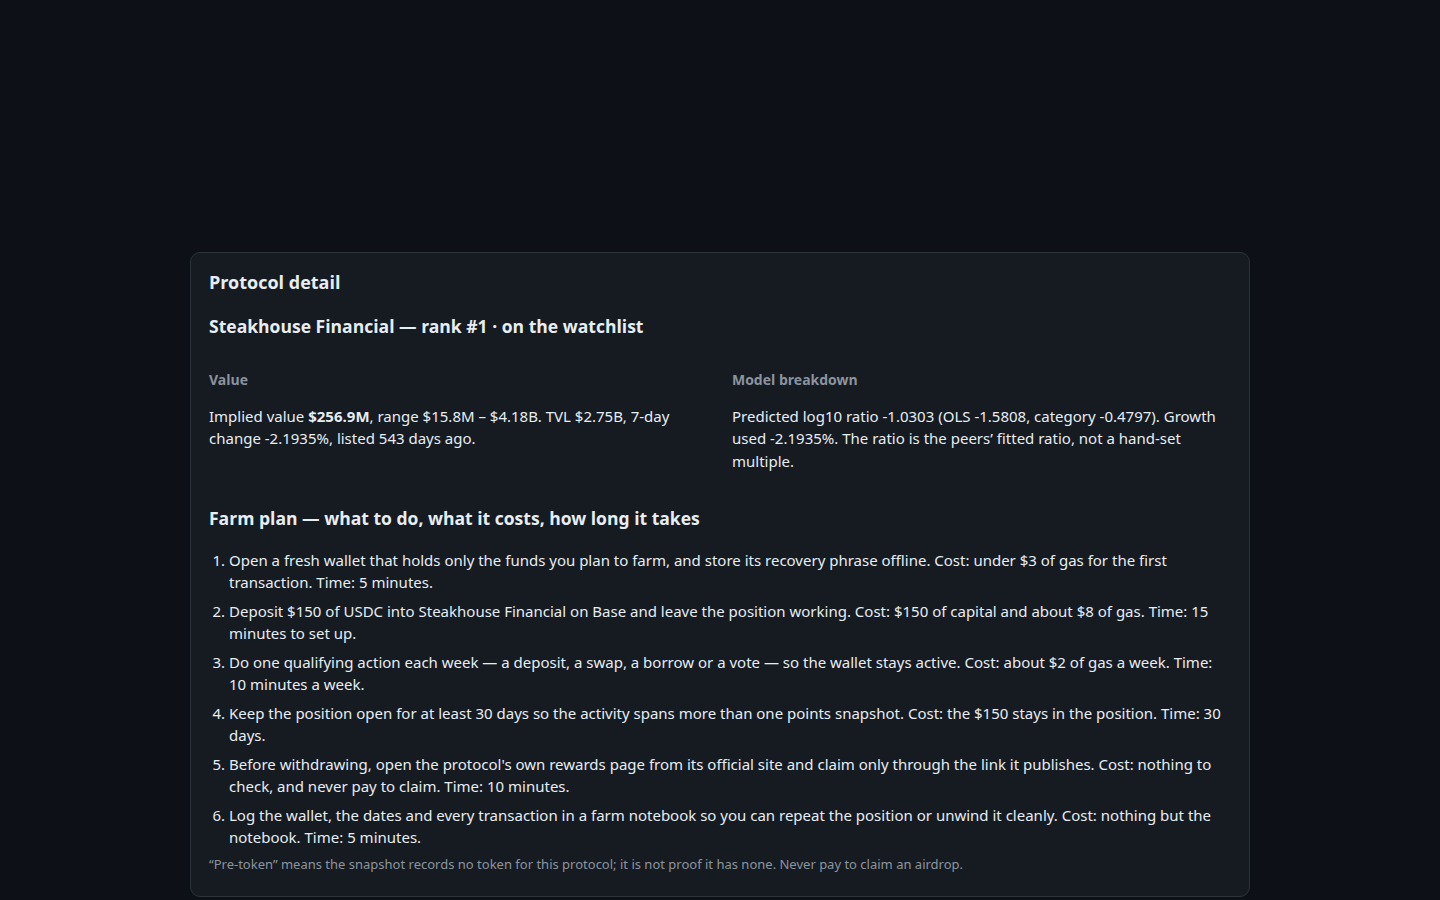
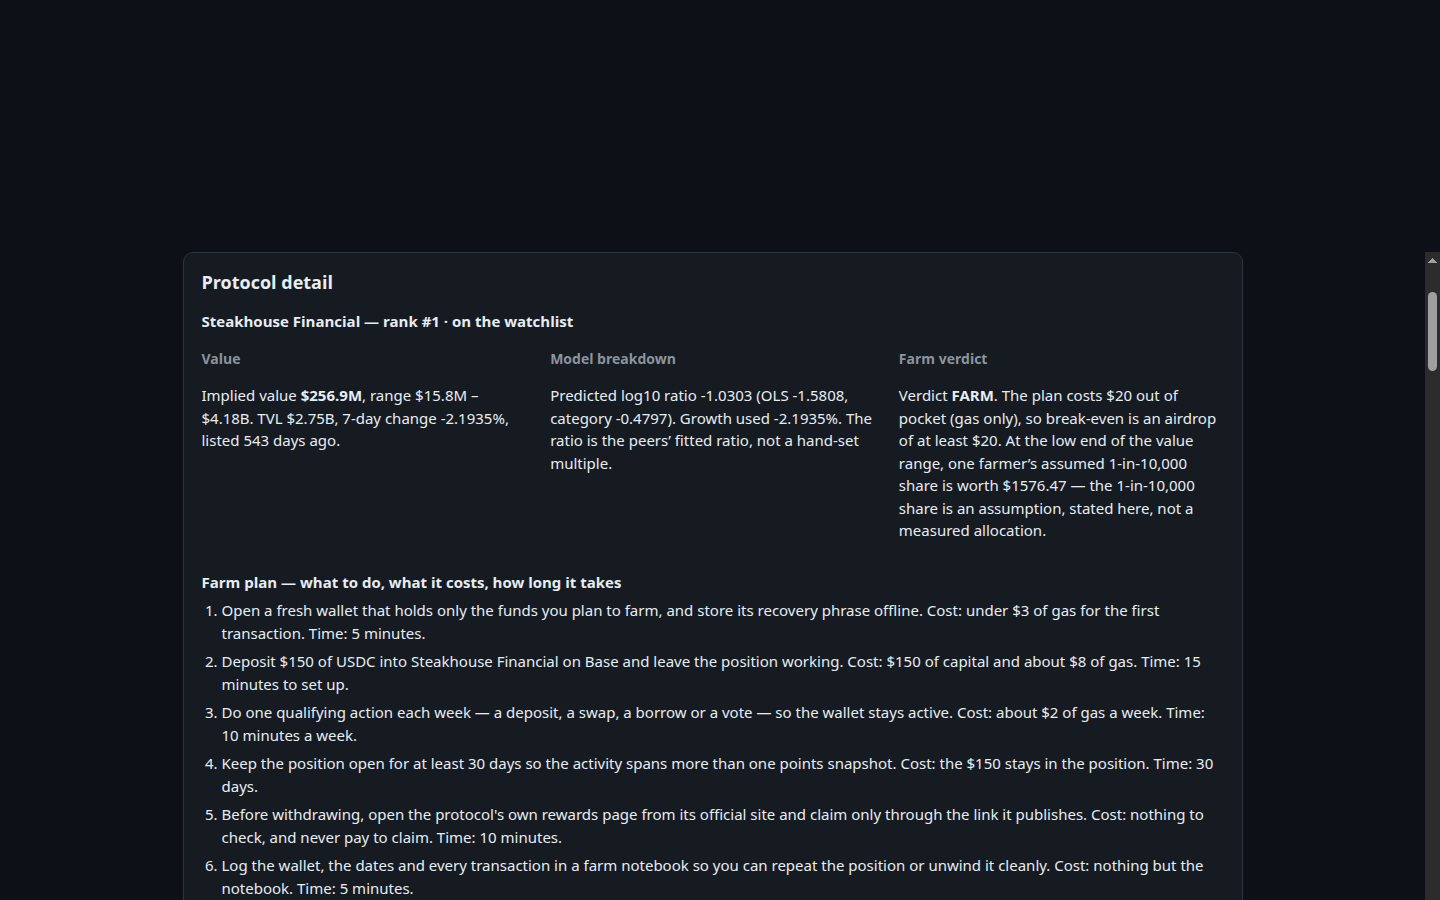
Token radar v2: farm verdicts, board Range column, 8-step plans, per-term ablation

diff --git a/lib/model.ts b/lib/model.ts
@@ -21,9 +21,16 @@
 //     on the rest, and the error on the held-out peers is reported.
 //   * walk-forward: peers listed before the median listing date train the
 //     model; peers listed after it are the test set.
+//   * ablation: the model is refit with one term removed at a time and scored
+//     on the same held-out peers, so each term has to earn its keep.
 // Both are honest about the fit: the peer ratio is noisy (R^2 near 0.2),
 // so implied values are order-of-magnitude estimates and each row carries
 // its interval. The dashboard states the numbers instead of hiding them.
+//
+// Each row also carries a farm verdict (FARM / THIN / SKIP) and a break-even,
+// computed from numbers already on the row: the plan's out-of-pocket spend
+// against one farmer's assumed 1-in-10,000 share of the implied value.
+// The verdict never changes the ranking or the values.
 
 export interface SnapshotProtocol {
   slug: string;
@@ -56,6 +63,8 @@ export interface FitMetrics {
   held_out: { n_train: number; n_test: number; rmse_log10: number; mae_log10: number };
   walk_forward: { n_train: number; n_test: number; rmse_log10: number; mae_log10: number; split_date: string | null };
   coefficients: number[];
+  /** Held-out RMSE of the full model, then of the model refit with one term removed. */
+  ablation: { term: string; held_out_rmse_log10: number }[];
 }
 
 export interface BoardRow {
@@ -80,6 +89,15 @@ export interface BoardRow {
     maturity_days: number;
   };
   farm_steps: string[];
+  /** Farm verdict, from numbers already on the row: the plan's out-of-pocket
+   * spend, the airdrop that would break even, and one farmer's assumed share
+   * of the implied value at the low end of its range. */
+  farm: {
+    verdict: 'FARM' | 'THIN' | 'SKIP';
+    spend_usd: number;
+    break_even_usd: number;
+    expected_low_usd: number;
+  };
 }
 
 export interface LiveRow {
@@ -107,7 +125,7 @@ export interface RadarData {
   live: LiveRow[];
 }
 
-export const MODEL_VERSION = 'radar-peerfit-1';
+export const MODEL_VERSION = 'radar-peerfit-2';
 
 const DAY_MS = 86_400_000;
 const UNKNOWN_AGE_DAYS = 365;
@@ -150,10 +168,14 @@ export function exclusionReason(p: SnapshotProtocol): string | null {
   return null;
 }
 
-/** Features for the peer regression. */
-function features(p: SnapshotProtocol, asOf: string): number[] {
+/** Features for the peer regression. A dropped index is zeroed, which for OLS
+ * is the same as refitting without that term: its coefficient is pinned to
+ * zero by the ridge and the other coefficients refit around its absence. */
+function features(p: SnapshotProtocol, asOf: string, dropIdx: number | null = null): number[] {
   const age = ageDays(asOf, p.listed_at) ?? UNKNOWN_AGE_DAYS;
-  return [1, Math.log10(Math.max(1, p.tvl_usd)), clampGrowth(p.change_7d) / 100, Math.log1p(Math.max(0, age)), Math.min(4, p.chains.length)];
+  const f = [1, Math.log10(Math.max(1, p.tvl_usd)), clampGrowth(p.change_7d) / 100, Math.log1p(Math.max(0, age)), Math.min(4, p.chains.length)];
+  if (dropIdx !== null) f[dropIdx] = 0;
+  return f;
 }
 
 /** Solve (X'X + ridge*I) b = X'y by Gaussian elimination. X rows are feature vectors. */
@@ -235,31 +257,34 @@ interface FittedModel {
   lo: number;
   hi: number;
   rmse: number;
+  dropIdx: number | null;
+  useCategory: boolean;
 }
 
-function fitModel(peers: SnapshotProtocol[], logRatios: number[], asOf: string): FittedModel {
-  const beta = ols(peers.map((p) => features(p, asOf)), logRatios);
+function fitModel(peers: SnapshotProtocol[], logRatios: number[], asOf: string, dropIdx: number | null = null, useCategory = true): FittedModel {
+  const beta = ols(peers.map((p) => features(p, asOf, dropIdx)), logRatios);
   const globalMedian = median(logRatios);
   const byCat = categoryMedians(peers, logRatios);
   const catMedian = new Map<string, number>();
   for (const [cat, vals] of byCat) {
     catMedian.set(cat, (vals.length * median(vals) + 5 * globalMedian) / (vals.length + 5));
   }
-  const preds = peers.map((p, i) => predictOne(p, asOf, beta, globalMedian, catMedian));
+  const preds = peers.map((p, i) => predictOne(p, asOf, beta, globalMedian, catMedian, dropIdx, useCategory));
   const rmse = Math.sqrt(preds.reduce((s, pr, i) => s + (pr - logRatios[i]!) ** 2, 0) / Math.max(1, preds.length));
-  return { beta, globalMedian, catMedian, lo: percentile(logRatios, 0.05), hi: percentile(logRatios, 0.95), rmse };
+  return { beta, globalMedian, catMedian, lo: percentile(logRatios, 0.05), hi: percentile(logRatios, 0.95), rmse, dropIdx, useCategory };
 }
 
-function predictOne(p: SnapshotProtocol, asOf: string, beta: number[], globalMedian: number, catMedian: Map<string, number>): number {
-  const olsPred = dot(beta, features(p, asOf));
+function predictOne(p: SnapshotProtocol, asOf: string, beta: number[], globalMedian: number, catMedian: Map<string, number>, dropIdx: number | null = null, useCategory = true): number {
+  const olsPred = dot(beta, features(p, asOf, dropIdx));
+  if (!useCategory) return olsPred;
   const catPred = catMedian.get(p.category ?? 'Unknown') ?? globalMedian;
   return (olsPred + catPred) / 2;
 }
 
 function predictClamped(p: SnapshotProtocol, asOf: string, model: FittedModel): { logRatio: number; ols: number; cat: number } {
-  const olsPred = dot(model.beta, features(p, asOf));
+  const olsPred = dot(model.beta, features(p, asOf, model.dropIdx));
   const catPred = model.catMedian.get(p.category ?? 'Unknown') ?? model.globalMedian;
-  const raw = (olsPred + catPred) / 2;
+  const raw = model.useCategory ? (olsPred + catPred) / 2 : olsPred;
   return { logRatio: Math.min(model.hi, Math.max(model.lo, raw)), ols: olsPred, cat: catPred };
 }
 
@@ -292,6 +317,23 @@ export function fitAndValidate(snapshot: Snapshot): { model: FittedModel; metric
   const heldPred = testPeers.map((p) => predictClamped(p, snapshot.as_of, heldModel).logRatio);
   const held = errorStats(testY, heldPred);
 
+  // Ablation: refit with one term removed, scored on the same held-out peers.
+  // A term earns its keep when removing it makes the held-out error worse.
+  const TERM_NAMES = ['log TVL', '7-day growth', 'age', 'chain count'];
+  const ablation: { term: string; held_out_rmse_log10: number }[] = [
+    { term: 'full model', held_out_rmse_log10: Math.round(held.rmse * 1000) / 1000 },
+  ];
+  for (let d = 1; d <= 4; d++) {
+    const m = fitModel(trainPeers, trainY, snapshot.as_of, d, true);
+    const pr = testPeers.map((p) => predictClamped(p, snapshot.as_of, m).logRatio);
+    const e = errorStats(testY, pr);
+    ablation.push({ term: `without ${TERM_NAMES[d - 1]}`, held_out_rmse_log10: Math.round(e.rmse * 1000) / 1000 });
+  }
+  const noCatModel = fitModel(trainPeers, trainY, snapshot.as_of, null, false);
+  const noCatPred = testPeers.map((p) => predictClamped(p, snapshot.as_of, noCatModel).logRatio);
+  const noCat = errorStats(testY, noCatPred);
+  ablation.push({ term: 'without category median', held_out_rmse_log10: Math.round(noCat.rmse * 1000) / 1000 });
+
   // Walk-forward: train on peers listed before the median listing date, test after.
   const dated = peers
     .map((p, i) => ({ p, y: logRatios[i]!, d: p.listed_at }))
@@ -318,6 +360,7 @@ export function fitAndValidate(snapshot: Snapshot): { model: FittedModel; metric
     held_out: { n_train: trainPeers.length, n_test: testPeers.length, rmse_log10: Math.round(held.rmse * 1000) / 1000, mae_log10: Math.round(held.mae * 1000) / 1000 },
     walk_forward: { ...walk, rmse_log10: Math.round(walk.rmse_log10 * 1000) / 1000, mae_log10: Math.round(walk.mae_log10 * 1000) / 1000 },
     coefficients: model.beta.map((b) => Math.round(b * 10000) / 10000),
+    ablation,
   };
   return { model, metrics };
 }
@@ -358,12 +401,66 @@ function actionFor(p: SnapshotProtocol, capital: number, chain: string): string 
   return `Deposit $${capital} of USDC into ${name} on ${chain} and leave the position working.`;
 }
 
-/** Six costed, timed steps, derived from the protocol's own record. */
-export function farmSteps(p: SnapshotProtocol, age: number | null): string[] {
+/** Out-of-pocket spend of one farm plan: first gas, weekly gas over the hold,
+ * and the claim check. The deposit capital is not spend — it comes back with
+ * the position. */
+export function farmSpendUsd(p: SnapshotProtocol, age: number | null): number {
+  const capital = capitalFor(p);
+  const gasFirst = capital >= 150 ? 8 : 4;
+  const hold = holdDaysFor(age);
+  return gasFirst + Math.ceil(hold / 7) * 2 + 2;
+}
+
+/**
+ * Farm verdict, from numbers already on the row. A farmer's share of a launch
+ * is a tiny fraction of the protocol's implied value; we assume 1 in 10,000
+ * of it reaches one active farmer, and the dashboard says so. The verdict
+ * compares that expected share, at the low end of the value range, with the
+ * plan's out-of-pocket spend: FARM when even the low end covers the spend ten
+ * times over, THIN when it covers the spend at all, SKIP otherwise.
+ */
+export function farmVerdict(impliedLowUsd: number, impliedUsd: number, spendUsd: number): { verdict: 'FARM' | 'THIN' | 'SKIP'; expected_low_usd: number } {
+  const SHARE = 0.0001;
+  const expectedLow = impliedLowUsd * SHARE;
+  const expected = impliedUsd * SHARE;
+  const rounded = Math.round(expectedLow * 100) / 100;
+  if (expectedLow >= 10 * spendUsd) return { verdict: 'FARM', expected_low_usd: rounded };
+  if (expectedLow >= spendUsd || expected >= 10 * spendUsd) return { verdict: 'THIN', expected_low_usd: rounded };
+  return { verdict: 'SKIP', expected_low_usd: rounded };
+}
+
+/** A second, different qualifying action for the same protocol, done once
+ * mid-hold so the wallet shows two kinds of activity, not one repeated. */
+function secondActionFor(p: SnapshotProtocol, capital: number, chain: string): string {
+  const c = (p.category ?? '').toLowerCase();
+  const name = p.name;
+  const small = Math.max(10, Math.round(capital / 5));
+  if (c.includes('lend') || c.includes('cdp')) return `Borrow $${small} against the deposit once, then repay it the same week, so the wallet shows a borrow as well as a lend.`;
+  if (c.includes('dex') || c.includes('leveraged farm')) return `Swap $${small} through the main ${name} pool once, so the wallet shows a swap as well as liquidity.`;
+  if (c.includes('yield') || c.includes('vault')) return `Add a second, smaller deposit of $${small} from a different asset into the ${name} vault, so the wallet shows two deposits.`;
+  if (c.includes('perpetual') || c.includes('derivative')) return `Close the hedged position once and open one fresh small trade, so the wallet shows more than a single entry.`;
+  if (c.includes('restak') || c.includes('staking')) return `Restake the staking receipt once through the ${name} restaking route, so the wallet shows a second staking action.`;
+  if (c.includes('stable')) return `Hold the minted stablecoins in the ${name} savings route for a week, so the wallet shows a second stablecoin action.`;
+  if (c.includes('rwa') || c.includes('onchain capital') || c.includes('allocator')) return `Reinvest one distribution back into the same ${name} asset, so the wallet shows a reinvestment as well as a buy.`;
+  if (c.includes('basis')) return `Top up the ${name} basis position once with a small second deposit of $${small}, so the wallet shows two deposits.`;
+  if (c.includes('prediction')) return `Settle one market and enter a second small one on ${name}, so the wallet shows two settled markets.`;
+  if (c.includes('bridge')) return `Bridge $${small} back to the origin chain once through ${name}, so the wallet shows a round trip.`;
+  return `Make one second, different on-chain interaction — a vote, a second deposit or a small swap — so the wallet shows two kinds of activity.`;
+}
+
+/** Eight costed, timed steps, derived from the protocol's own record. */
+export function farmSteps(p: SnapshotProtocol, age: number | null, verdict: 'FARM' | 'THIN' | 'SKIP'): string[] {
   const chain = chainOf(p);
   const capital = capitalFor(p);
   const hold = holdDaysFor(age);
   const gas = capital >= 150 ? 8 : 4;
+  const spend = farmSpendUsd(p, age);
+  const verdictNote =
+    verdict === 'FARM'
+      ? 'even the low end of the value range would pay the spend back more than ten times over'
+      : verdict === 'THIN'
+        ? 'the low end of the range would just about cover the spend'
+        : 'even the point estimate would not cover the spend';
   const steps = [
     `Open a fresh wallet that holds only the funds you plan to farm, and store its recovery phrase offline. Cost: under $3 of gas for the first transaction. Time: 5 minutes.`,
     `${actionFor(p, capital, chain)} Cost: $${capital} of capital and about $${gas} of gas. Time: 15 minutes to set up.`,
@@ -371,6 +468,8 @@ export function farmSteps(p: SnapshotProtocol, age: number | null): string[] {
     `Keep the position open for at least ${hold} days so the activity spans more than one points snapshot. Cost: the $${capital} stays in the position. Time: ${hold} days.`,
     `Before withdrawing, open the protocol's own rewards page from its official site and claim only through the link it publishes. Cost: nothing to check, and never pay to claim. Time: 10 minutes.`,
     `Log the wallet, the dates and every transaction in a farm notebook so you can repeat the position or unwind it cleanly. Cost: nothing but the notebook. Time: 5 minutes.`,
+    `${secondActionFor(p, capital, chain)} Cost: about $2 of gas. Time: 10 minutes, once.`,
+    `Break-even: an airdrop of at least $${spend} covers this plan's out-of-pocket spend of $${spend} (gas only; the $${capital} deposit comes back with the position). Verdict: ${verdict} — ${verdictNote}. Time: 5 minutes to check.`,
   ];
   return steps.map((s) => (s.length > 600 ? `${s.slice(0, 596)}...` : s));
 }
@@ -398,29 +497,34 @@ export function buildBoard(snapshot: Snapshot): { board: BoardRow[]; radar: Rada
   });
   scored.sort((a, b) => b.implied - a.implied || (a.p.slug < b.p.slug ? -1 : a.p.slug > b.p.slug ? 1 : 0));
 
-  const board: BoardRow[] = scored.map((s, i) => ({
-    rank: i + 1,
-    slug: s.p.slug,
-    name: s.p.name,
-    category: s.p.category,
-    chains: s.p.chains,
-    tvl_usd: s.p.tvl_usd,
-    change_7d: s.p.change_7d,
-    age_days: s.age,
-    implied_value_usd: s.implied,
-    implied_low_usd: s.low,
-    implied_high_usd: s.high,
-    token_status: 'pre-token',
-    on_watchlist: watch.has(s.p.slug),
-    model: {
-      log_ratio: Math.round(s.pred.logRatio * 10000) / 10000,
-      ols_log_ratio: Math.round(s.pred.ols * 10000) / 10000,
-      category_log_ratio: Math.round(s.pred.cat * 10000) / 10000,
-      growth_pct: clampGrowth(s.p.change_7d),
-      maturity_days: s.age ?? UNKNOWN_AGE_DAYS,
-    },
-    farm_steps: farmSteps(s.p, s.age),
-  }));
+  const board: BoardRow[] = scored.map((s, i) => {
+    const spend = farmSpendUsd(s.p, s.age);
+    const v = farmVerdict(s.low, s.implied, spend);
+    return {
+      rank: i + 1,
+      slug: s.p.slug,
+      name: s.p.name,
+      category: s.p.category,
+      chains: s.p.chains,
+      tvl_usd: s.p.tvl_usd,
+      change_7d: s.p.change_7d,
+      age_days: s.age,
+      implied_value_usd: s.implied,
+      implied_low_usd: s.low,
+      implied_high_usd: s.high,
+      token_status: 'pre-token',
+      on_watchlist: watch.has(s.p.slug),
+      model: {
+        log_ratio: Math.round(s.pred.logRatio * 10000) / 10000,
+        ols_log_ratio: Math.round(s.pred.ols * 10000) / 10000,
+        category_log_ratio: Math.round(s.pred.cat * 10000) / 10000,
+        growth_pct: clampGrowth(s.p.change_7d),
+        maturity_days: s.age ?? UNKNOWN_AGE_DAYS,
+      },
+      farm_steps: farmSteps(s.p, s.age, v.verdict),
+      farm: { verdict: v.verdict, spend_usd: spend, break_even_usd: spend, expected_low_usd: v.expected_low_usd },
+    };
+  });
 
   const live: LiveRow[] = snapshot.protocols
     .filter((p) => !isPreToken(p) && p.category !== 'CEX')
@@ -466,6 +570,7 @@ export function buildBoard(snapshot: Snapshot): { board: BoardRow[]; radar: Rada
       on_watchlist: r.on_watchlist,
       model: r.model,
       farm_steps: r.farm_steps,
+      farm: r.farm,
     })),
     live,
   };

diff --git a/dashboard/app.js b/dashboard/app.js
@@ -29,13 +29,15 @@
   var watchCovered = rows.filter(function (r) { return r.on_watchlist; }).length;
   var stepsOk = rows.every(function (r) { return r.farm_steps.length >= 3 && r.farm_steps.length <= 12; });
   var sortedOk = rows.every(function (r, i) { return i === 0 || rows[i - 1].implied_value_usd >= r.implied_value_usd; });
+  var accounted = D.accounted.ranked + D.accounted.live + D.accounted.excluded;
   var chips = [
     ['Watchlist covered ' + watchCovered + '/' + D.watchlist_size, watchCovered === D.watchlist_size],
+    [accounted + '/' + D.accounted.total + ' accounted for', accounted === D.accounted.total],
     ['Board ' + rows.length + ' rows, ranks 1–' + rows.length, rows.length >= 100],
-    ['Farm plans 6 steps each', stepsOk],
+    ['Farm plans 8 steps each', stepsOk],
     ['Values fall with rank', sortedOk],
     ['No network: static page', true],
-    ['Peer fit is noisy — see validation', false],
+    ['Held-out RMSE ' + fit.held_out.rmse_log10.toFixed(2) + ' log10', true],
   ];
   document.getElementById('integrity').innerHTML = chips.map(function (c) {
     return '<span class="chip ' + (c[1] ? 'ok' : 'warn') + '">' + esc(c[0]) + '</span>';
@@ -60,6 +62,15 @@
     'Read the validation honestly: the peer fit is noisy (R² ≈ ' + fit.r_squared + '). Each row therefore carries ' +
     'an interval of roughly ×/÷ ' + Math.pow(10, fit.held_out.rmse_log10).toFixed(1) +
     ' around its implied value. These are order-of-magnitude estimates, not prices.';
+
+  if (fit.ablation) {
+    document.getElementById('ablation-note').textContent =
+      'Each row refits the model with one term removed and scores it on the same held-out peers (n=' + fit.held_out.n_test + '). ' +
+      'A term earns its keep when removing it makes the error worse; a term whose removal helps — or changes nothing — is carried for completeness, not because the blind test likes it.';
+    document.querySelector('#ablation tbody').innerHTML = fit.ablation.map(function (a) {
+      return '<tr><td>' + esc(a.term) + '</td><td class="num">' + a.held_out_rmse_log10.toFixed(3) + '</td></tr>';
+    }).join('');
+  }
 
   // Filters.
   var cats = [...new Set(rows.map(function (r) { return r.category || 'Unknown'; }))].sort();
@@ -95,7 +106,9 @@
         '<td>' + esc(r.category || '—') + '</td><td>' + esc(r.chains.slice(0, 2).join(', ') || '—') + '</td>' +
         '<td class="num">' + money(r.tvl_usd) + '</td><td class="num">' + pct(r.change_7d) + '</td>' +
         '<td class="num">' + (r.age_days === null ? '—' : r.age_days + 'd') + '</td>' +
-        '<td class="num"><b>' + money(r.implied_value_usd) + '</b></td></tr>';
+        '<td class="num"><b>' + money(r.implied_value_usd) + '</b></td>' +
+        '<td class="num">' + money(r.implied_low_usd) + '–' + money(r.implied_high_usd) + '</td>' +
+        '<td>' + (r.farm ? '<span class="badge verdict-' + r.farm.verdict.toLowerCase() + '">' + r.farm.verdict + '</span>' : '—') + '</td></tr>';
     }).join('');
     tb.querySelectorAll('tr').forEach(function (tr) {
       tr.addEventListener('click', function () { showDetail(tr.getAttribute('data-slug')); });
@@ -113,7 +126,11 @@
       ', listed ' + (r.age_days === null ? 'date unknown' : r.age_days + ' days ago') + '.</p></div>' +
       '<div><h3>Model breakdown</h3><p>Predicted log10 ratio ' + r.model.log_ratio +
       ' (OLS ' + r.model.ols_log_ratio + ', category ' + r.model.category_log_ratio +
-      '). Growth used ' + r.model.growth_pct + '%. The ratio is the peers’ fitted ratio, not a hand-set multiple.</p></div></div>' +
+      '). Growth used ' + r.model.growth_pct + '%. The ratio is the peers’ fitted ratio, not a hand-set multiple.</p></div>' +
+      (r.farm ? '<div><h3>Farm verdict</h3><p>Verdict <b>' + r.farm.verdict + '</b>. The plan costs $' + r.farm.spend_usd +
+      ' out of pocket (gas only), so break-even is an airdrop of at least $' + r.farm.break_even_usd + '. ' +
+      'At the low end of the value range, one farmer’s assumed 1-in-10,000 share is worth $' + r.farm.expected_low_usd.toFixed(2) +
+      ' — the 1-in-10,000 share is an assumption, stated here, not a measured allocation.</p></div>' : '') + '</div>' +
       '<h3>Farm plan — what to do, what it costs, how long it takes</h3><ol class="steps">' +
       r.farm_steps.map(function (s) { return '<li>' + esc(s) + '</li>'; }).join('') + '</ol>' +
       '<p class="note">“Pre-token” means the snapshot records no token for this protocol; it is not proof it has none. Never pay to claim an airdrop.</p>';

diff --git a/dashboard/index.html b/dashboard/index.html
@@ -23,6 +23,14 @@
     <p id="model-text"></p>
     <dl class="metrics" id="metrics"></dl>
     <p class="note" id="model-note"></p>
+    <h3>Term ablation — held-out RMSE with one term removed</h3>
+    <p class="note" id="ablation-note"></p>
+    <div class="table-wrap">
+      <table id="ablation">
+        <thead><tr><th>Model</th><th class="num">Held-out RMSE (log10)</th></tr></thead>
+        <tbody></tbody>
+      </table>
+    </div>
   </section>
 
   <section class="panel controls">
@@ -43,7 +51,7 @@
     <p class="note" id="board-note"></p>
     <div class="table-wrap">
       <table id="board">
-        <thead><tr><th>#</th><th>Protocol</th><th>Category</th><th>Chains</th><th>TVL</th><th>7d</th><th>Age</th><th>Implied value</th></tr></thead>
+        <thead><tr><th>#</th><th>Protocol</th><th>Category</th><th>Chains</th><th>TVL</th><th>7d</th><th>Age</th><th>Implied value</th><th>Range</th><th>Farm</th></tr></thead>
         <tbody></tbody>
       </table>
     </div>

diff --git a/dashboard/app.css b/dashboard/app.css
@@ -29,6 +29,12 @@ tbody tr { cursor: pointer; }
 tbody tr:hover { background: #1f242c; }
 tbody tr.selected { background: #1c2b3d; }
 .badge { display: inline-block; background: #1f3a5f; color: var(--accent); border-radius: 4px; padding: 0 6px; font-size: 12px; margin-left: 6px; }
+.badge.verdict-farm { background: #12391f; color: var(--green); margin-left: 0; }
+.badge.verdict-thin { background: #3a2f10; color: var(--amber); margin-left: 0; }
+.badge.verdict-skip { background: #3d1618; color: var(--red); margin-left: 0; }
+#ablation tbody tr { cursor: default; }
+#board th, #board td { padding: 6px 5px; font-size: 12px; }
+.panel h3 { margin: 14px 0 4px; font-size: 15px; }
 .pos { color: var(--green); } .neg { color: var(--red); }
 .detail-grid { display: grid; grid-template-columns: repeat(auto-fit, minmax(220px, 1fr)); gap: 10px 24px; }
 .detail-grid h3 { margin: 12px 0 4px; font-size: 14px; color: var(--muted); }
